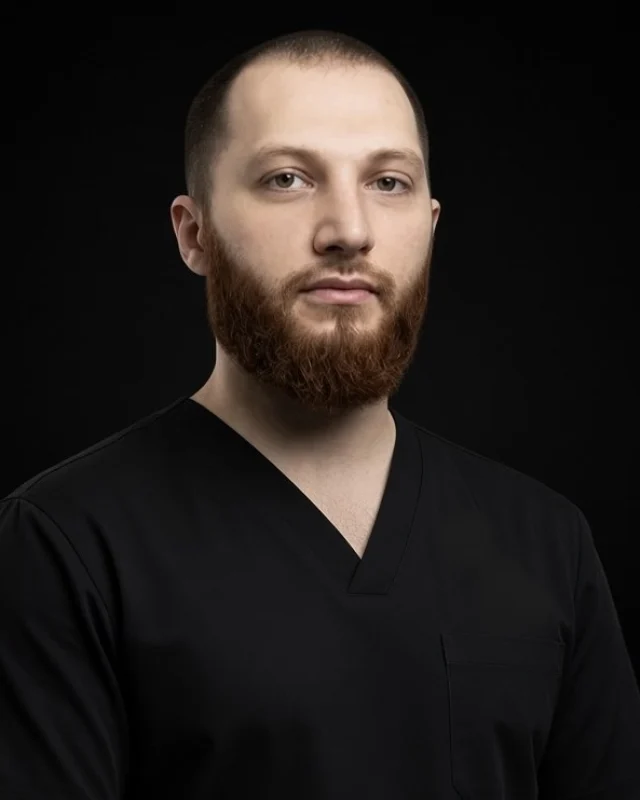
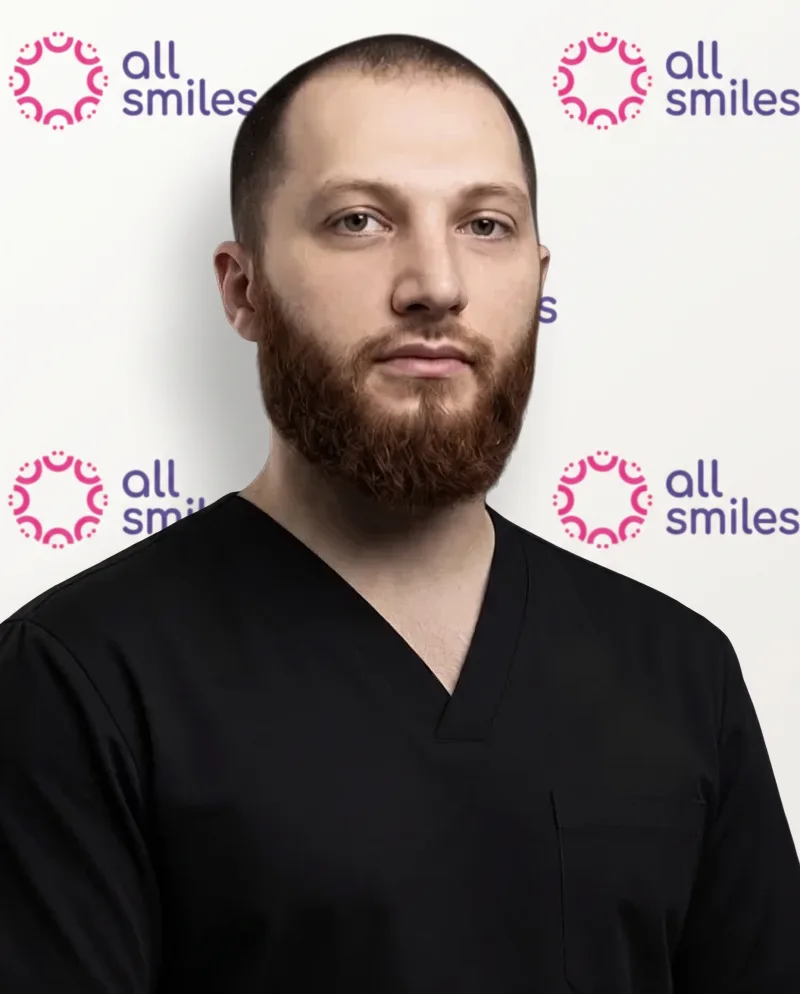
[FKLDSJ-105] Новые фото врачей на пресс-волле All Smiles (v=5)

diff --git a/index.html b/index.html
@@ -270,7 +270,7 @@
     <p class="closing-lead">Собираем консилиум для сложных случаев: специализируемся на имплантации при патологиях челюсти и минимальном объёме кости.</p>
 
     <div class="closing-chief">
-      <div class="closing-photo"><img src="../assets/doctors/berlov.webp?v=3" alt="Берлов Антон Владимирович" loading="lazy"></div>
+      <div class="closing-photo"><img src="../assets/doctors/berlov.webp?v=5" alt="Берлов Антон Владимирович" loading="lazy"></div>
       <div>
         <span class="closing-eyebrow">Главный врач сети · стоматолог‑ортопед</span>
         <h3>Берлов Антон Владимирович</h3>
@@ -289,14 +289,14 @@
     <div class="closing-slider" data-doc-slider>
       <button class="closing-nav closing-nav--prev" type="button" aria-label="Предыдущие врачи" disabled><svg viewBox="0 0 24 24" aria-hidden="true"><path d="M15 5l-7 7 7 7" fill="none" stroke="currentColor" stroke-width="2.2" stroke-linecap="round" stroke-linejoin="round"/></svg></button>
       <div class="closing-track">
-        <a class="closing-doc" href="vrachi/akchurin/"><div class="closing-photo"><img src="../assets/doctors/akchurin.webp?v=4" alt="Акчурин Руслан Дамирович" loading="lazy"></div><h3>Акчурин Руслан Дамирович</h3><small>Стоматолог‑хирург · стаж 18 лет</small><p>Имплантация, хирургический этап, удаление зубов любой сложности.</p><span class="closing-doc-more">Подробнее о враче ›</span></a>
-        <a class="closing-doc" href="vrachi/tsahaev/"><div class="closing-photo"><img src="../assets/doctors/tsahaev.webp?v=4" alt="Цахаев Марат Халилович" loading="lazy"></div><h3>Цахаев Марат Халилович</h3><small>Стоматолог‑хирург‑имплантолог · стаж 11 лет</small><p>Имплантация All‑on‑4, хирургический этап, сложные случаи.</p><span class="closing-doc-more">Подробнее о враче ›</span></a>
-        <a class="closing-doc" href="vrachi/arkallaev-ramazan/"><div class="closing-photo"><img src="../assets/doctors/arkallaev-ramazan.webp?v=4" alt="Аркаллаев Рамазан Рашидович" loading="lazy"></div><h3>Аркаллаев Рамазан Рашидович</h3><small>Стоматолог‑хирург‑имплантолог · стаж 6 лет</small><p>Имплантация All‑on‑4/6, костная пластика, удаление зубов.</p><span class="closing-doc-more">Подробнее о враче ›</span></a>
-        <a class="closing-doc" href="vrachi/petrosyan/"><div class="closing-photo"><img src="../assets/doctors/petrosyan.webp?v=4" alt="Петросян Сергей Гагикович" loading="lazy"></div><h3>Петросян Сергей Гагикович</h3><small>Стоматолог‑ортопед · стаж 6 лет</small><p>Протезирование на имплантах, виниры, коронки, All‑on‑4/6.</p><span class="closing-doc-more">Подробнее о враче ›</span></a>
-        <a class="closing-doc" href="vrachi/dzhanumova/"><div class="closing-photo"><img src="../assets/doctors/dzhanumova.webp?v=4" alt="Джанумова Валерия Александровна" loading="lazy"></div><h3>Джанумова Валерия Александровна</h3><small>Стоматолог‑ортопед · стаж 9 лет</small><p>Протезирование, коронки, реставрация и лечение зубов.</p><span class="closing-doc-more">Подробнее о враче ›</span></a>
-        <a class="closing-doc" href="vrachi/amaev/"><div class="closing-photo"><img src="../assets/doctors/amaev.webp?v=4" alt="Амаев Камал Шарифович" loading="lazy"></div><h3>Амаев Камал Шарифович</h3><small>Стоматолог‑ортопед · стаж 8 лет</small><p>Протезирование на имплантах, виниры, коронки, съёмные и несъёмные протезы.</p><span class="closing-doc-more">Подробнее о враче ›</span></a>
-        <a class="closing-doc" href="vrachi/arkallaev-magomed/"><div class="closing-photo"><img src="../assets/doctors/arkallaev-magomed.webp?v=4" alt="Аркаллаев Магомед Рашидович" loading="lazy"></div><h3>Аркаллаев Магомед Рашидович</h3><small>Стоматолог‑ортопед · стаж 6 лет</small><p>Эстетические реставрации, тотальное протезирование, виниры и коронки.</p><span class="closing-doc-more">Подробнее о враче ›</span></a>
-        <a class="closing-doc" href="vrachi/kilkeev/"><div class="closing-photo"><img src="../assets/doctors/kilkeev.webp?v=4" alt="Килькеев Азамат Русланович" loading="lazy"></div><h3>Килькеев Азамат Русланович</h3><small>Стоматолог‑хирург‑имплантолог · стаж 6 лет</small><p>Классическая имплантация, All‑on‑4/6, удаление зубов.</p><span class="closing-doc-more">Подробнее о враче ›</span></a>
+        <a class="closing-doc" href="vrachi/akchurin/"><div class="closing-photo"><img src="../assets/doctors/akchurin.webp?v=5" alt="Акчурин Руслан Дамирович" loading="lazy"></div><h3>Акчурин Руслан Дамирович</h3><small>Стоматолог‑хирург · стаж 18 лет</small><p>Имплантация, хирургический этап, удаление зубов любой сложности.</p><span class="closing-doc-more">Подробнее о враче ›</span></a>
+        <a class="closing-doc" href="vrachi/tsahaev/"><div class="closing-photo"><img src="../assets/doctors/tsahaev.webp?v=5" alt="Цахаев Марат Халилович" loading="lazy"></div><h3>Цахаев Марат Халилович</h3><small>Стоматолог‑хирург‑имплантолог · стаж 11 лет</small><p>Имплантация All‑on‑4, хирургический этап, сложные случаи.</p><span class="closing-doc-more">Подробнее о враче ›</span></a>
+        <a class="closing-doc" href="vrachi/arkallaev-ramazan/"><div class="closing-photo"><img src="../assets/doctors/arkallaev-ramazan.webp?v=5" alt="Аркаллаев Рамазан Рашидович" loading="lazy"></div><h3>Аркаллаев Рамазан Рашидович</h3><small>Стоматолог‑хирург‑имплантолог · стаж 6 лет</small><p>Имплантация All‑on‑4/6, костная пластика, удаление зубов.</p><span class="closing-doc-more">Подробнее о враче ›</span></a>
+        <a class="closing-doc" href="vrachi/petrosyan/"><div class="closing-photo"><img src="../assets/doctors/petrosyan.webp?v=5" alt="Петросян Сергей Гагикович" loading="lazy"></div><h3>Петросян Сергей Гагикович</h3><small>Стоматолог‑ортопед · стаж 6 лет</small><p>Протезирование на имплантах, виниры, коронки, All‑on‑4/6.</p><span class="closing-doc-more">Подробнее о враче ›</span></a>
+        <a class="closing-doc" href="vrachi/dzhanumova/"><div class="closing-photo"><img src="../assets/doctors/dzhanumova.webp?v=5" alt="Джанумова Валерия Александровна" loading="lazy"></div><h3>Джанумова Валерия Александровна</h3><small>Стоматолог‑ортопед · стаж 9 лет</small><p>Протезирование, коронки, реставрация и лечение зубов.</p><span class="closing-doc-more">Подробнее о враче ›</span></a>
+        <a class="closing-doc" href="vrachi/amaev/"><div class="closing-photo"><img src="../assets/doctors/amaev.webp?v=5" alt="Амаев Камал Шарифович" loading="lazy"></div><h3>Амаев Камал Шарифович</h3><small>Стоматолог‑ортопед · стаж 8 лет</small><p>Протезирование на имплантах, виниры, коронки, съёмные и несъёмные протезы.</p><span class="closing-doc-more">Подробнее о враче ›</span></a>
+        <a class="closing-doc" href="vrachi/arkallaev-magomed/"><div class="closing-photo"><img src="../assets/doctors/arkallaev-magomed.webp?v=5" alt="Аркаллаев Магомед Рашидович" loading="lazy"></div><h3>Аркаллаев Магомед Рашидович</h3><small>Стоматолог‑ортопед · стаж 6 лет</small><p>Эстетические реставрации, тотальное протезирование, виниры и коронки.</p><span class="closing-doc-more">Подробнее о враче ›</span></a>
+        <a class="closing-doc" href="vrachi/kilkeev/"><div class="closing-photo"><img src="../assets/doctors/kilkeev.webp?v=5" alt="Килькеев Азамат Русланович" loading="lazy"></div><h3>Килькеев Азамат Русланович</h3><small>Стоматолог‑хирург‑имплантолог · стаж 6 лет</small><p>Классическая имплантация, All‑on‑4/6, удаление зубов.</p><span class="closing-doc-more">Подробнее о враче ›</span></a>
       </div>
       <button class="closing-nav closing-nav--next" type="button" aria-label="Следующие врачи"><svg viewBox="0 0 24 24" aria-hidden="true"><path d="M9 5l7 7-7 7" fill="none" stroke="currentColor" stroke-width="2.2" stroke-linecap="round" stroke-linejoin="round"/></svg></button>
     </div>

diff --git a/mobile.js b/mobile.js
@@ -77,16 +77,16 @@
       { img: A + 'land/vitaliy-before.jpg', tag: 'До', cap: 'Виталий', sub: 'Атрофия костной ткани' },
       { img: A + 'land/vitaliy-after.jpg', tag: 'После', cap: 'Nobel по 3D-шаблону', sub: 'Протез с армирующей балкой' },
     ] },
-    { id: 'doctors', title: 'Врачи', cover: A + 'doctors/berlov.webp?v=3', fit: true, doctors: true, slides: [
-      { img: A + 'doctors/berlov.webp?v=3', cap: 'Берлов Антон Владимирович', sub: 'Главный врач сети, д. м. н., профессор · стаж более 30 лет' },
-      { img: A + 'doctors/akchurin.webp?v=4', cap: 'Акчурин Руслан Дамирович', sub: 'Стоматолог-хирург · стаж 18 лет' },
-      { img: A + 'doctors/tsahaev.webp?v=4', cap: 'Цахаев Марат Халилович', sub: 'Стоматолог-хирург-имплантолог · стаж 11 лет' },
-      { img: A + 'doctors/arkallaev-ramazan.webp?v=4', cap: 'Аркаллаев Рамазан Рашидович', sub: 'Стоматолог-хирург-имплантолог · стаж 6 лет' },
-      { img: A + 'doctors/petrosyan.webp?v=4', cap: 'Петросян Сергей Гагикович', sub: 'Стоматолог-ортопед · стаж 6 лет' },
-      { img: A + 'doctors/dzhanumova.webp?v=4', cap: 'Джанумова Валерия Александровна', sub: 'Стоматолог-ортопед · стаж 9 лет' },
-      { img: A + 'doctors/amaev.webp?v=4', cap: 'Амаев Камал Шарифович', sub: 'Стоматолог-ортопед · стаж 8 лет' },
-      { img: A + 'doctors/arkallaev-magomed.webp?v=4', cap: 'Аркаллаев Магомед Рашидович', sub: 'Стоматолог-ортопед · стаж 6 лет' },
-      { img: A + 'doctors/kilkeev.webp?v=4', cap: 'Килькеев Азамат Русланович', sub: 'Стоматолог-хирург-имплантолог · стаж 6 лет' },
+    { id: 'doctors', title: 'Врачи', cover: A + 'doctors/berlov.webp?v=5', fit: true, doctors: true, slides: [
+      { img: A + 'doctors/berlov.webp?v=5', cap: 'Берлов Антон Владимирович', sub: 'Главный врач сети, д. м. н., профессор · стаж более 30 лет' },
+      { img: A + 'doctors/akchurin.webp?v=5', cap: 'Акчурин Руслан Дамирович', sub: 'Стоматолог-хирург · стаж 18 лет' },
+      { img: A + 'doctors/tsahaev.webp?v=5', cap: 'Цахаев Марат Халилович', sub: 'Стоматолог-хирург-имплантолог · стаж 11 лет' },
+      { img: A + 'doctors/arkallaev-ramazan.webp?v=5', cap: 'Аркаллаев Рамазан Рашидович', sub: 'Стоматолог-хирург-имплантолог · стаж 6 лет' },
+      { img: A + 'doctors/petrosyan.webp?v=5', cap: 'Петросян Сергей Гагикович', sub: 'Стоматолог-ортопед · стаж 6 лет' },
+      { img: A + 'doctors/dzhanumova.webp?v=5', cap: 'Джанумова Валерия Александровна', sub: 'Стоматолог-ортопед · стаж 9 лет' },
+      { img: A + 'doctors/amaev.webp?v=5', cap: 'Амаев Камал Шарифович', sub: 'Стоматолог-ортопед · стаж 8 лет' },
+      { img: A + 'doctors/arkallaev-magomed.webp?v=5', cap: 'Аркаллаев Магомед Рашидович', sub: 'Стоматолог-ортопед · стаж 6 лет' },
+      { img: A + 'doctors/kilkeev.webp?v=5', cap: 'Килькеев Азамат Русланович', sub: 'Стоматолог-хирург-имплантолог · стаж 6 лет' },
     ] },
     { id: 'clinic', title: 'Клиника', cover: A + 'stories/clinic-entrance.webp', slides: [
       { img: A + 'stories/clinic-entrance.webp', cap: 'Вход с улицы, 1 этаж', sub: 'Ленинградский проспект, 36, стр. 40' },

diff --git a/vrachi/arkallaev-ramazan/index.html b/vrachi/arkallaev-ramazan/index.html
@@ -21,7 +21,7 @@
 <main class="doc-wrap" id="doctor">
  <nav class="doc-crumbs" aria-label="Хлебные крошки"><a href="../../">Главная</a> / <a href="../../#closing-team">Врачи</a> / <span>Аркаллаев Рамазан Рашидович</span></nav>
  <div class="doc-hero">
-  <figure class="doc-photo"><img src="../../../assets/doctors/arkallaev-ramazan.webp?v=4" alt="Аркаллаев Рамазан Рашидович" width="760" height="950"></figure>
+  <figure class="doc-photo"><img src="../../../assets/doctors/arkallaev-ramazan.webp?v=5" alt="Аркаллаев Рамазан Рашидович" width="760" height="950"></figure>
   <div class="doc-info">
    <div class="doc-eyebrow">СТОМАТОЛОГ-ХИРУРГ-ИМПЛАНТОЛОГ</div>
    <h1>Аркаллаев Рамазан Рашидович</h1>

diff --git a/vrachi/dzhanumova/index.html b/vrachi/dzhanumova/index.html
@@ -21,7 +21,7 @@
 <main class="doc-wrap" id="doctor">
  <nav class="doc-crumbs" aria-label="Хлебные крошки"><a href="../../">Главная</a> / <a href="../../#closing-team">Врачи</a> / <span>Джанумова Валерия Александровна</span></nav>
  <div class="doc-hero">
-  <figure class="doc-photo"><img src="../../../assets/doctors/dzhanumova.webp?v=4" alt="Джанумова Валерия Александровна" width="760" height="950"></figure>
+  <figure class="doc-photo"><img src="../../../assets/doctors/dzhanumova.webp?v=5" alt="Джанумова Валерия Александровна" width="760" height="950"></figure>
   <div class="doc-info">
    <div class="doc-eyebrow">СТОМАТОЛОГ-ОРТОПЕД</div>
    <h1>Джанумова Валерия Александровна</h1>

diff --git a/vrachi/arkallaev-magomed/index.html b/vrachi/arkallaev-magomed/index.html
@@ -21,7 +21,7 @@
 <main class="doc-wrap" id="doctor">
  <nav class="doc-crumbs" aria-label="Хлебные крошки"><a href="../../">Главная</a> / <a href="../../#closing-team">Врачи</a> / <span>Аркаллаев Магомед Рашидович</span></nav>
  <div class="doc-hero">
-  <figure class="doc-photo"><img src="../../../assets/doctors/arkallaev-magomed.webp?v=4" alt="Аркаллаев Магомед Рашидович" width="760" height="950"></figure>
+  <figure class="doc-photo"><img src="../../../assets/doctors/arkallaev-magomed.webp?v=5" alt="Аркаллаев Магомед Рашидович" width="760" height="950"></figure>
   <div class="doc-info">
    <div class="doc-eyebrow">СТОМАТОЛОГ-ОРТОПЕД</div>
    <h1>Аркаллаев Магомед Рашидович</h1>

diff --git a/vrachi/kilkeev/index.html b/vrachi/kilkeev/index.html
@@ -21,7 +21,7 @@
 <main class="doc-wrap" id="doctor">
  <nav class="doc-crumbs" aria-label="Хлебные крошки"><a href="../../">Главная</a> / <a href="../../#closing-team">Врачи</a> / <span>Килькеев Азамат Русланович</span></nav>
  <div class="doc-hero">
-  <figure class="doc-photo"><img src="../../../assets/doctors/kilkeev.webp?v=4" alt="Килькеев Азамат Русланович" width="760" height="950"></figure>
+  <figure class="doc-photo"><img src="../../../assets/doctors/kilkeev.webp?v=5" alt="Килькеев Азамат Русланович" width="760" height="950"></figure>
   <div class="doc-info">
    <div class="doc-eyebrow">СТОМАТОЛОГ-ХИРУРГ-ИМПЛАНТОЛОГ</div>
    <h1>Килькеев Азамат Русланович</h1>

diff --git a/vrachi/berlov/index.html b/vrachi/berlov/index.html
@@ -21,7 +21,7 @@
 <main class="doc-wrap" id="doctor">
  <nav class="doc-crumbs" aria-label="Хлебные крошки"><a href="../../">Главная</a> / <a href="../../#closing-team">Врачи</a> / <span>Берлов Антон Владимирович</span></nav>
  <div class="doc-hero">
-  <figure class="doc-photo"><img src="../../../assets/doctors/berlov.webp?v=3" alt="Берлов Антон Владимирович" width="760" height="950"></figure>
+  <figure class="doc-photo"><img src="../../../assets/doctors/berlov.webp?v=5" alt="Берлов Антон Владимирович" width="760" height="950"></figure>
   <div class="doc-info">
    <div class="doc-eyebrow">ГЛАВНЫЙ ВРАЧ СЕТИ, Д. М. Н., ПРОФЕССОР</div>
    <h1>Берлов Антон Владимирович</h1>

diff --git a/vrachi/petrosyan/index.html b/vrachi/petrosyan/index.html
@@ -21,7 +21,7 @@
 <main class="doc-wrap" id="doctor">
  <nav class="doc-crumbs" aria-label="Хлебные крошки"><a href="../../">Главная</a> / <a href="../../#closing-team">Врачи</a> / <span>Петросян Сергей Гагикович</span></nav>
  <div class="doc-hero">
-  <figure class="doc-photo"><img src="../../../assets/doctors/petrosyan.webp?v=4" alt="Петросян Сергей Гагикович" width="760" height="950"></figure>
+  <figure class="doc-photo"><img src="../../../assets/doctors/petrosyan.webp?v=5" alt="Петросян Сергей Гагикович" width="760" height="950"></figure>
   <div class="doc-info">
    <div class="doc-eyebrow">СТОМАТОЛОГ-ОРТОПЕД</div>
    <h1>Петросян Сергей Гагикович</h1>

diff --git a/vrachi/tsahaev/index.html b/vrachi/tsahaev/index.html
@@ -21,7 +21,7 @@
 <main class="doc-wrap" id="doctor">
  <nav class="doc-crumbs" aria-label="Хлебные крошки"><a href="../../">Главная</a> / <a href="../../#closing-team">Врачи</a> / <span>Цахаев Марат Халилович</span></nav>
  <div class="doc-hero">
-  <figure class="doc-photo"><img src="../../../assets/doctors/tsahaev.webp?v=4" alt="Цахаев Марат Халилович" width="760" height="950"></figure>
+  <figure class="doc-photo"><img src="../../../assets/doctors/tsahaev.webp?v=5" alt="Цахаев Марат Халилович" width="760" height="950"></figure>
   <div class="doc-info">
    <div class="doc-eyebrow">СТОМАТОЛОГ-ХИРУРГ-ИМПЛАНТОЛОГ</div>
    <h1>Цахаев Марат Халилович</h1>

diff --git a/vrachi/akchurin/index.html b/vrachi/akchurin/index.html
@@ -21,7 +21,7 @@
 <main class="doc-wrap" id="doctor">
  <nav class="doc-crumbs" aria-label="Хлебные крошки"><a href="../../">Главная</a> / <a href="../../#closing-team">Врачи</a> / <span>Акчурин Руслан Дамирович</span></nav>
  <div class="doc-hero">
-  <figure class="doc-photo"><img src="../../../assets/doctors/akchurin.webp?v=4" alt="Акчурин Руслан Дамирович" width="760" height="950"></figure>
+  <figure class="doc-photo"><img src="../../../assets/doctors/akchurin.webp?v=5" alt="Акчурин Руслан Дамирович" width="760" height="950"></figure>
   <div class="doc-info">
    <div class="doc-eyebrow">СТОМАТОЛОГ-ХИРУРГ</div>
    <h1>Акчурин Руслан Дамирович</h1>

diff --git a/vrachi/amaev/index.html b/vrachi/amaev/index.html
@@ -21,7 +21,7 @@
 <main class="doc-wrap" id="doctor">
  <nav class="doc-crumbs" aria-label="Хлебные крошки"><a href="../../">Главная</a> / <a href="../../#closing-team">Врачи</a> / <span>Амаев Камал Шарифович</span></nav>
  <div class="doc-hero">
-  <figure class="doc-photo"><img src="../../../assets/doctors/amaev.webp?v=4" alt="Амаев Камал Шарифович" width="760" height="950"></figure>
+  <figure class="doc-photo"><img src="../../../assets/doctors/amaev.webp?v=5" alt="Амаев Камал Шарифович" width="760" height="950"></figure>
   <div class="doc-info">
    <div class="doc-eyebrow">СТОМАТОЛОГ-ОРТОПЕД</div>
    <h1>Амаев Камал Шарифович</h1>
